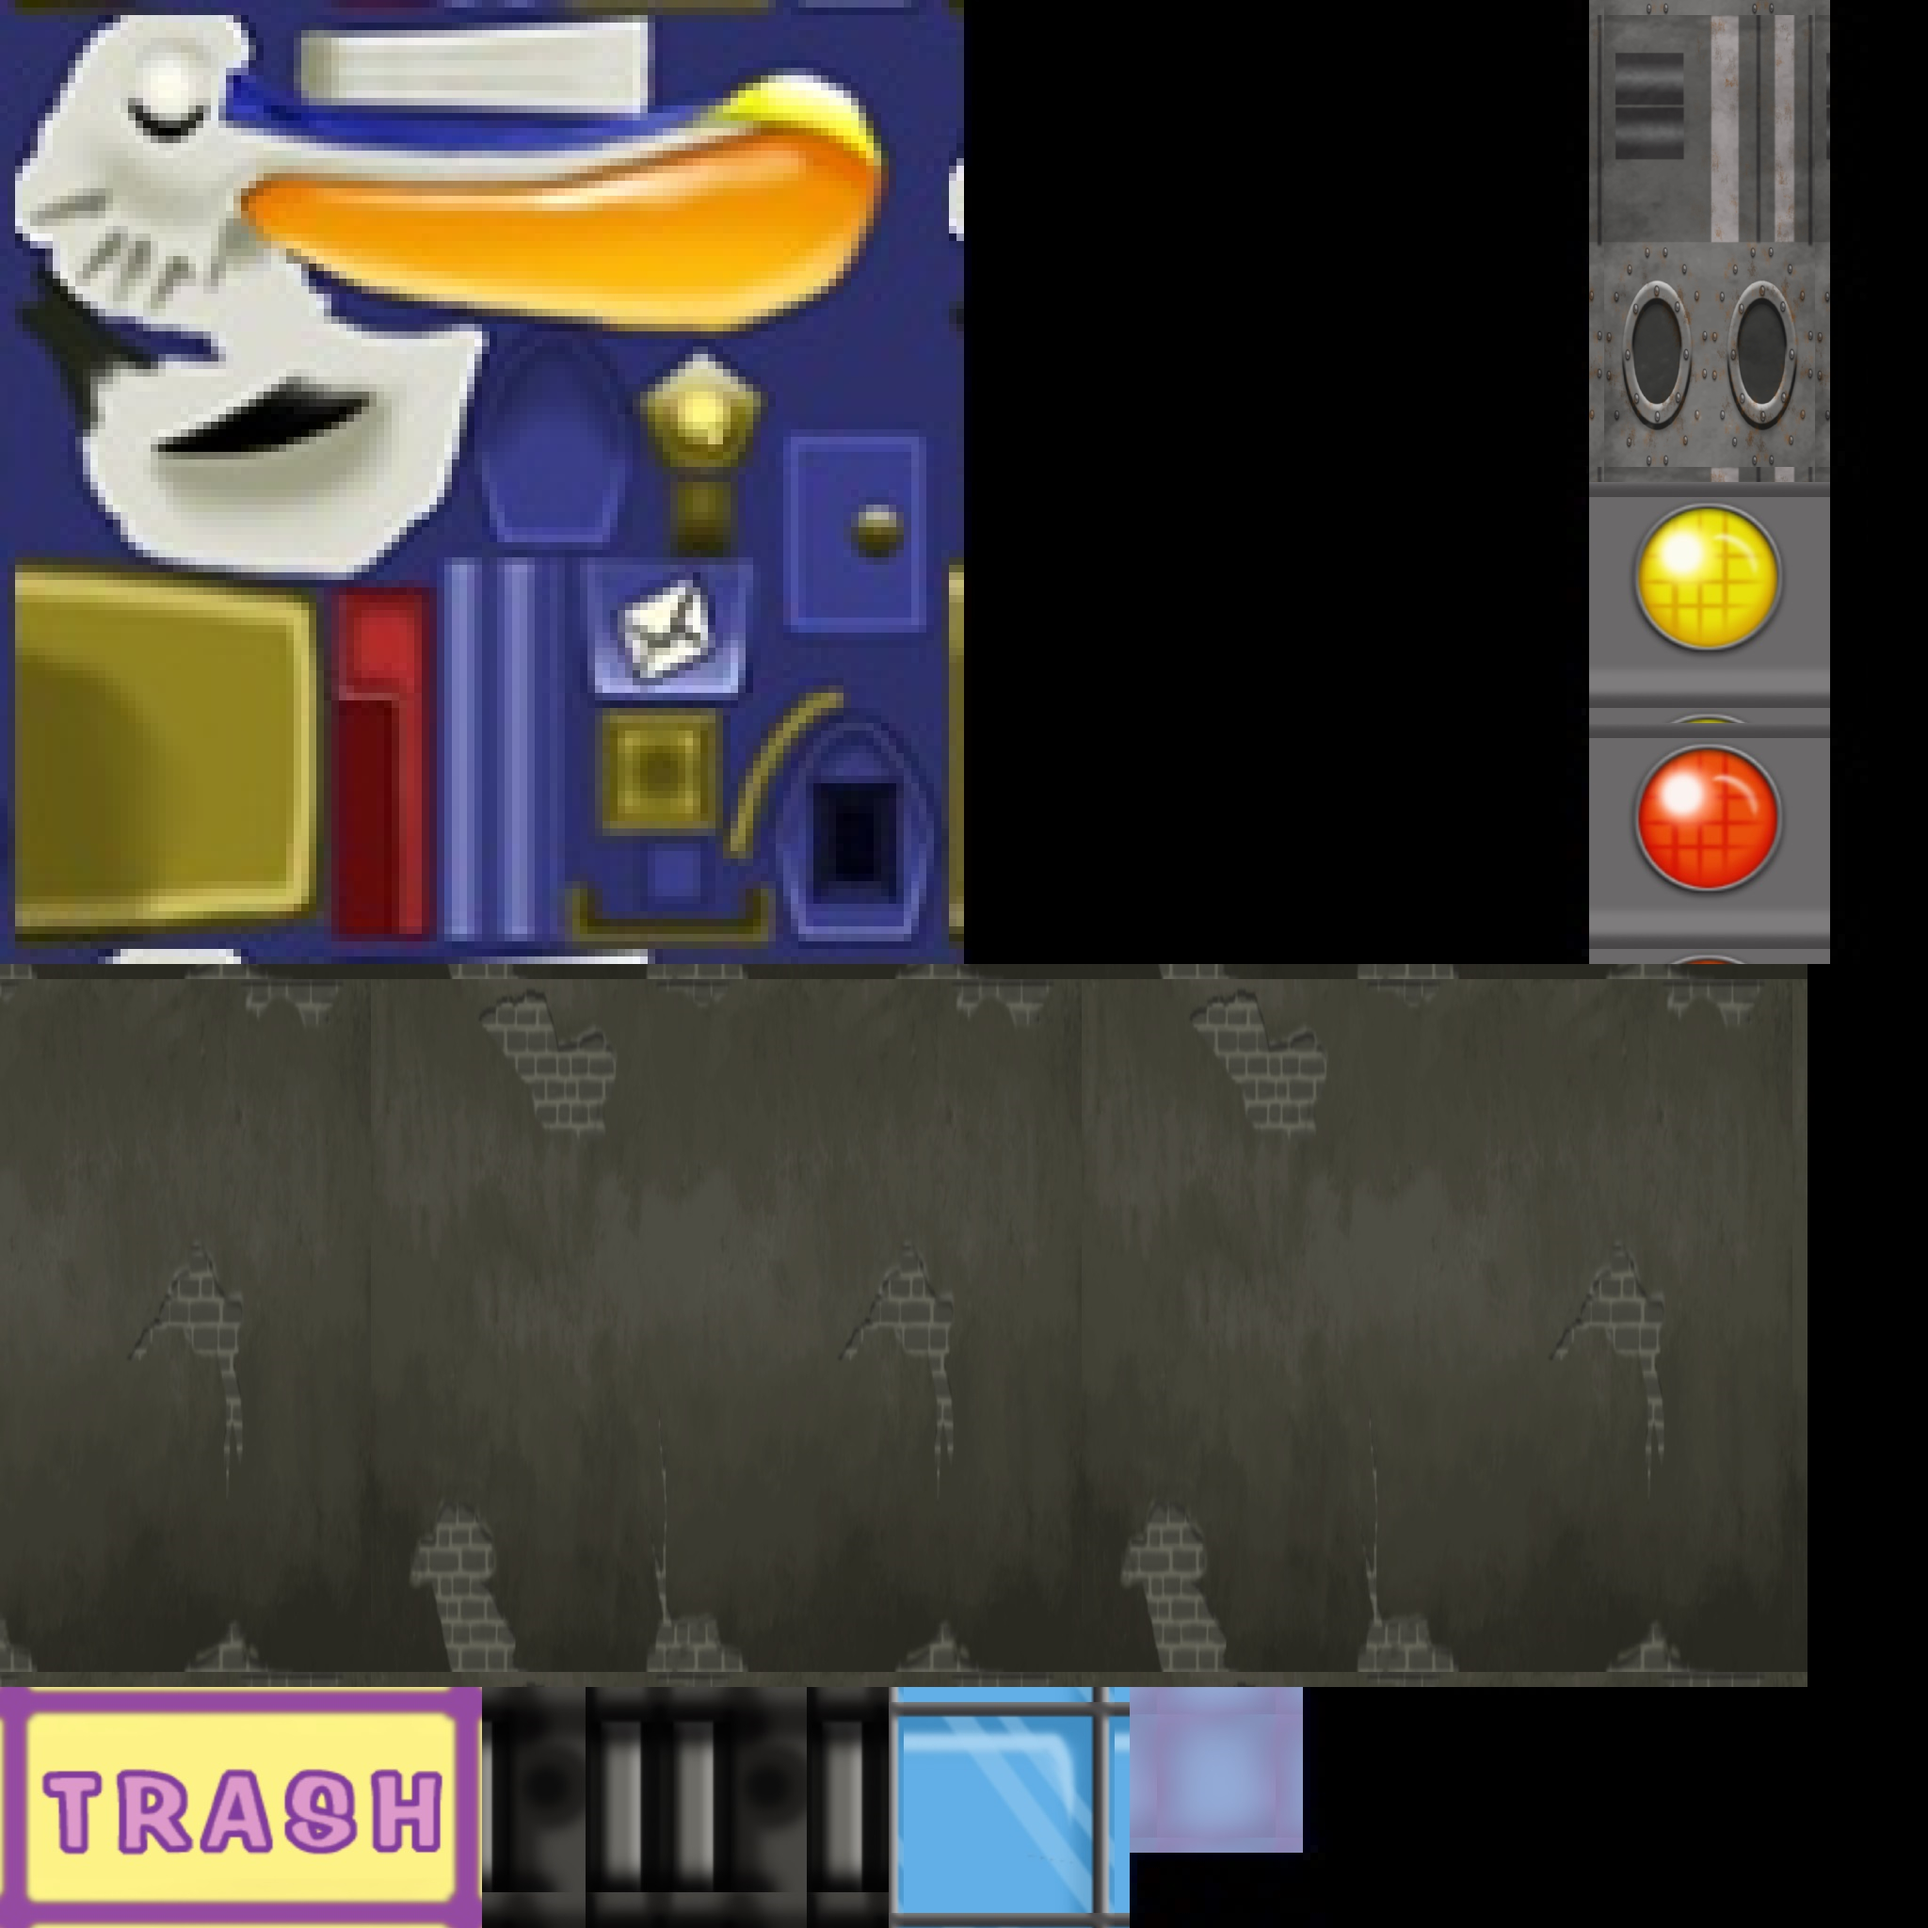
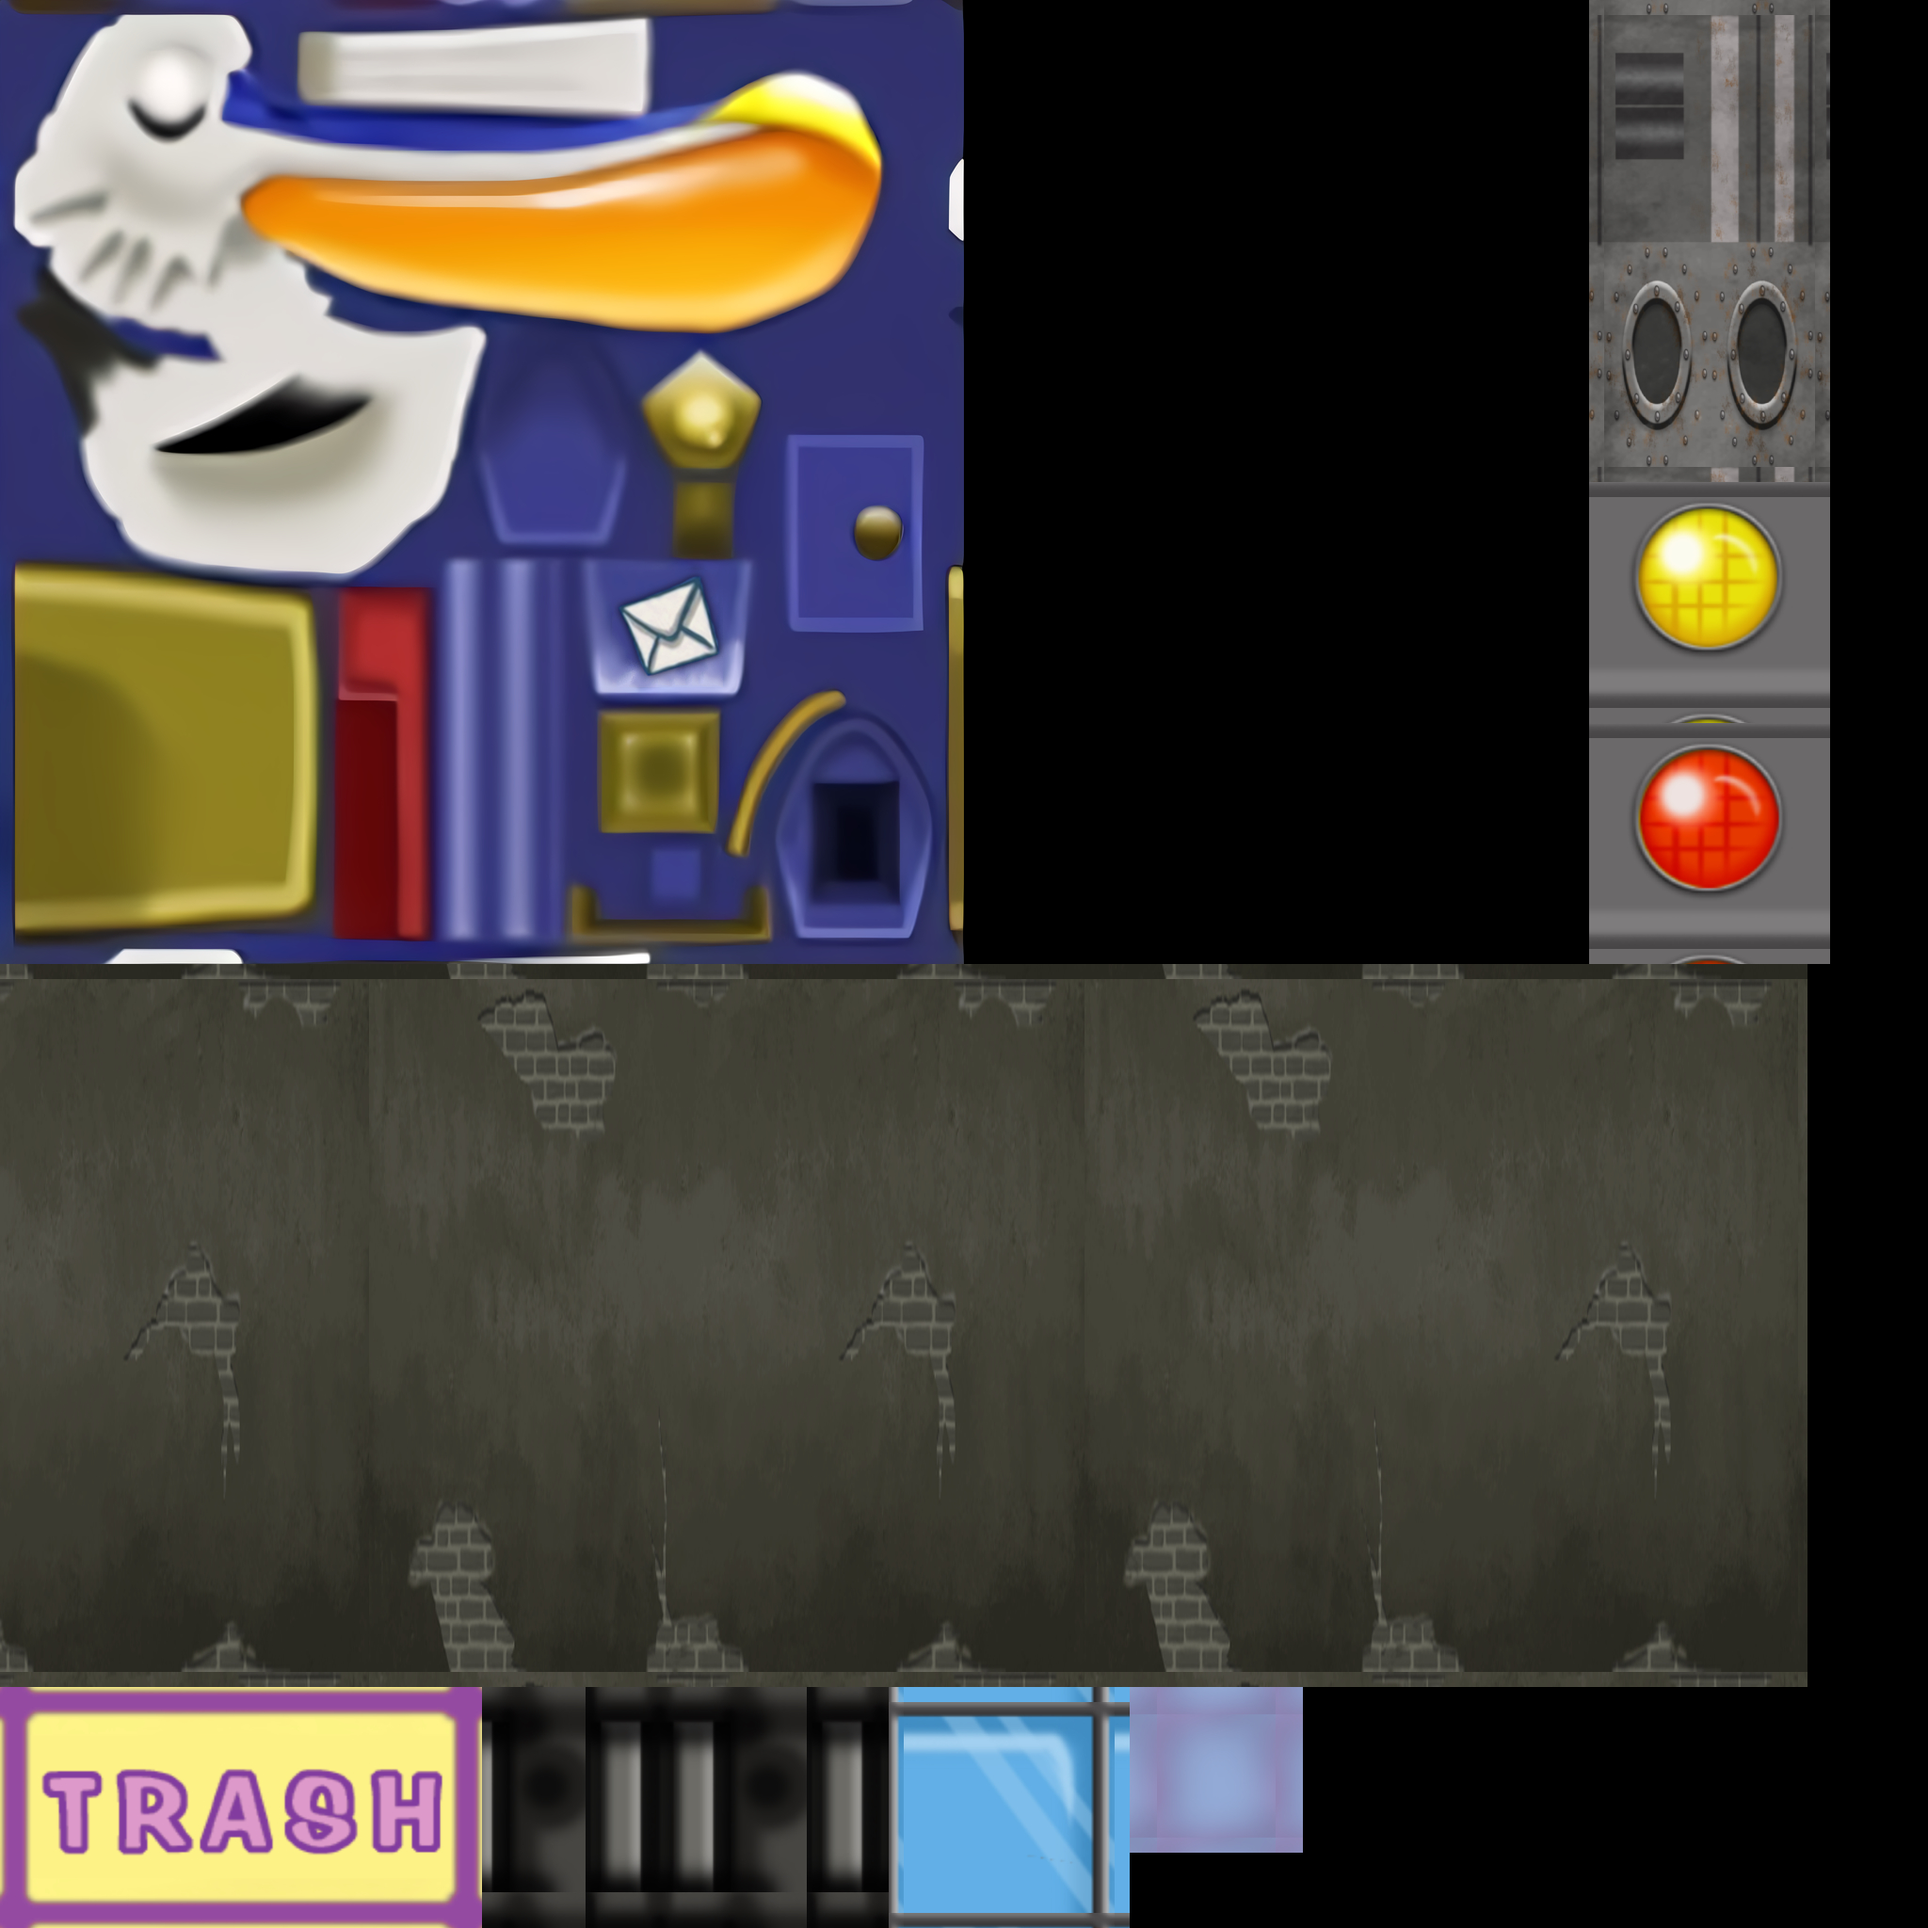
phase_6: Begin work on upscaling missing textures

diff --git a/README.md b/README.md
@@ -44,6 +44,8 @@ It's also possible that I made a mistake. In which case, please open an issue/pu
 
 **A:** Sadly, sound effects are on an indefinite hiatus for the moment.
 
-**Q:** Why do some textures look pixellated?
+**Q:** Does this make any use of upscaling?
 
-**A:** The Spotify repo only has content dating up to around 2008. This means things like the finalized Toon Hall, a couple minor textures for parties, and Field Offices weren't included. The original textures were used where applicable, and in most cases they were simply scaled up from their original resolutions, resulting in the pixellated look mentioned earlier.
+**A:** *For the most part,* no. Because Spotify dates to around 2008, many textures for content like Field Offices or the Silly Meter are missing, and possibly even lost to time. So for these cases, I opted to use a model by the name of [HDCube](https://github.com/Venomalia/HDcube). While it's designed around GameCube textures (which it looks fantastic on), it worked remarkably well on anything missing from Spotify. So in the interest of keeping a consistently clean picture throughout, I decided to use upscaling for anything missing.
+
+For the record, ***I will not be adding upscales to anything that isn't already part of a palette at this time.*** It might come later, but for now, I'm keeping it strictly to anything already palettized that doesn't have an HD equivalent.
